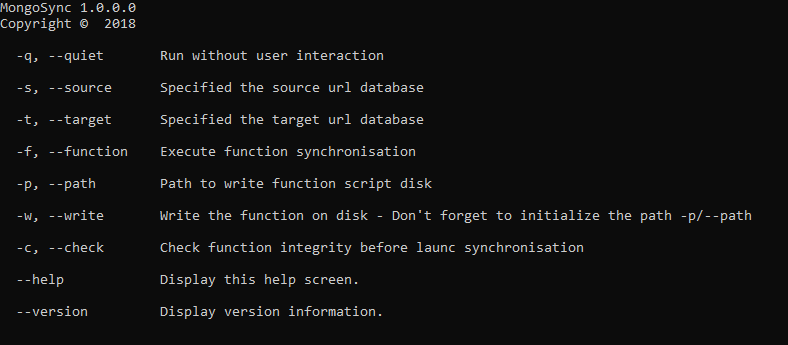
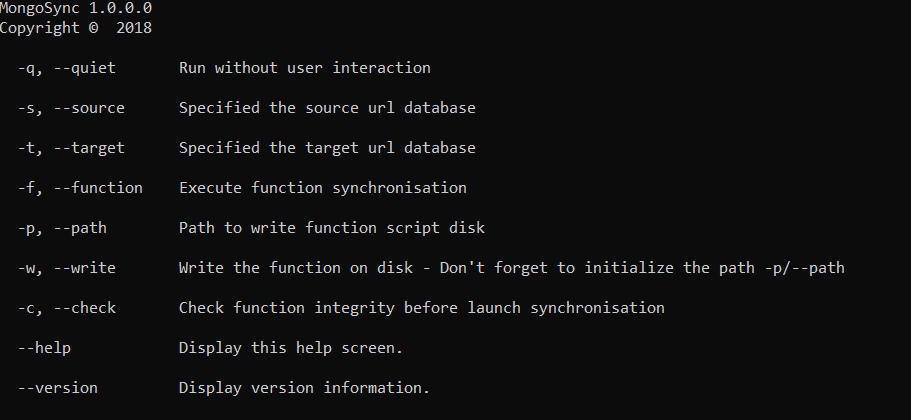
fix console typing and help image

diff --git a/MongoSync/CommandLine/ConsoleOptions.cs b/MongoSync/CommandLine/ConsoleOptions.cs
@@ -46,7 +46,7 @@ namespace MongoSync.CommandLine
         /// <summary>
         /// Indicate if you want to check function integrity before launc synchronisation
         /// </summary>
-        [Option('c', "check", Required = false, HelpText = "Check function integrity before launc synchronisation")]
+        [Option('c', "check", Required = false, HelpText = "Check function integrity before launch synchronisation")]
         public bool CheckFunctionIntegrity { get; set; }
     }
 }
